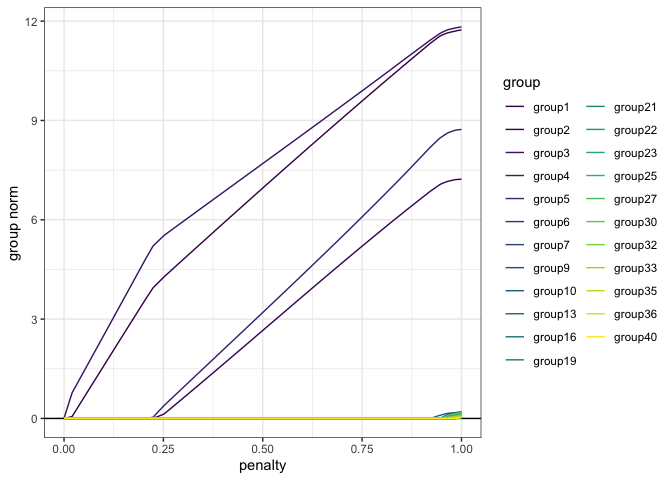
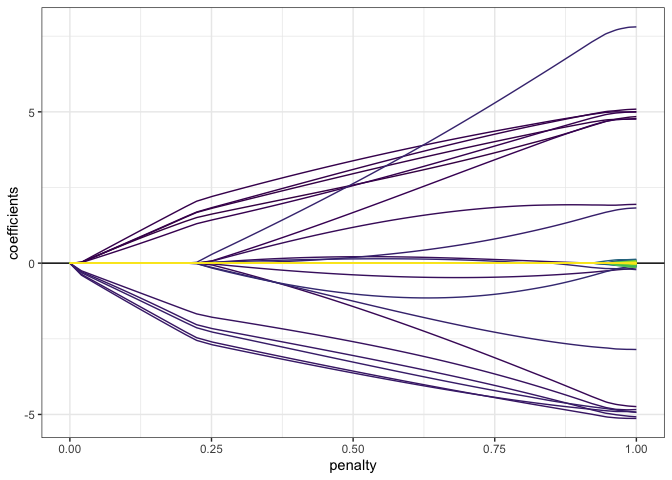
adding automatic pkgdown, potentially buggy

diff --git a/README.md b/README.md
@@ -1,4 +1,8 @@
 
+<!-- badges: start -->
+[![R-CMD-check](https://github.com/dajmcdon/sparsegl/workflows/R-CMD-check/badge.svg)](https://github.com/dajmcdon/sparsegl/actions)
+<!-- badges: end -->
+
 <!-- README.md is generated from README.Rmd. Please edit that file -->
 
 # R-package `sparsegl`
@@ -9,14 +13,18 @@ of the regularization parameter lambda.
 
 ## Installation
 
-You can install the released version of sparsegl from
-[CRAN](https://CRAN.R-project.org) with:
+<!--
+You can install the released version of sparsegl from [CRAN](https://CRAN.R-project.org) with:
 
-``` r
+
+```r
 install.packages("sparsegl")
 ```
 
-And the development version from [GitHub](https://github.com/) with:
+-->
+
+You can install the development version from
+[Github](https://github.com/) with:
 
 ``` r
 # install.packages("remotes")
@@ -35,7 +43,8 @@ beta_star <- c(rep(5, 5), c(5, -5, 2, 0, 0), rep(-5, 5), c(2, -3, 8, 0, 0), rep(
 y <- X %*% beta_star + eps
 groups <- rep(1:(p / 5), each = 5)
 fit1 <- sparsegl(X, y, group = groups)
-plot(fit1, y_axis = "group", x_axis = "penalty")
+plot(fit1, y_axis = "coef", x_axis = "penalty") + 
+  ggplot2::theme(legend.position = "none")
 ```
 
 <img src="man/figures/README-minimal-ex-1.png" width="100%" style="display: block; margin: auto;" />
@@ -43,4 +52,4 @@ plot(fit1, y_axis = "group", x_axis = "penalty")
 ## Documentation
 
 The package documentation and more examples are [available
-online](a%20hyperlink%20later).
+online](https://dajmcdon.github.io/sparsegl).
